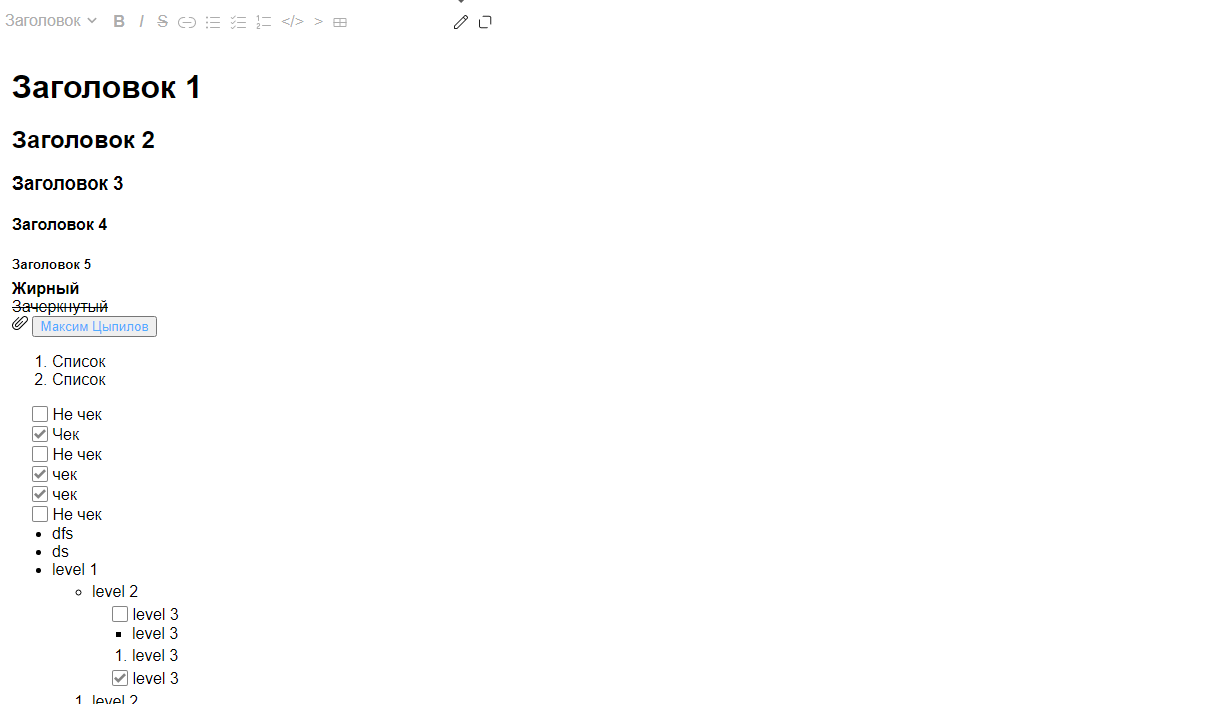
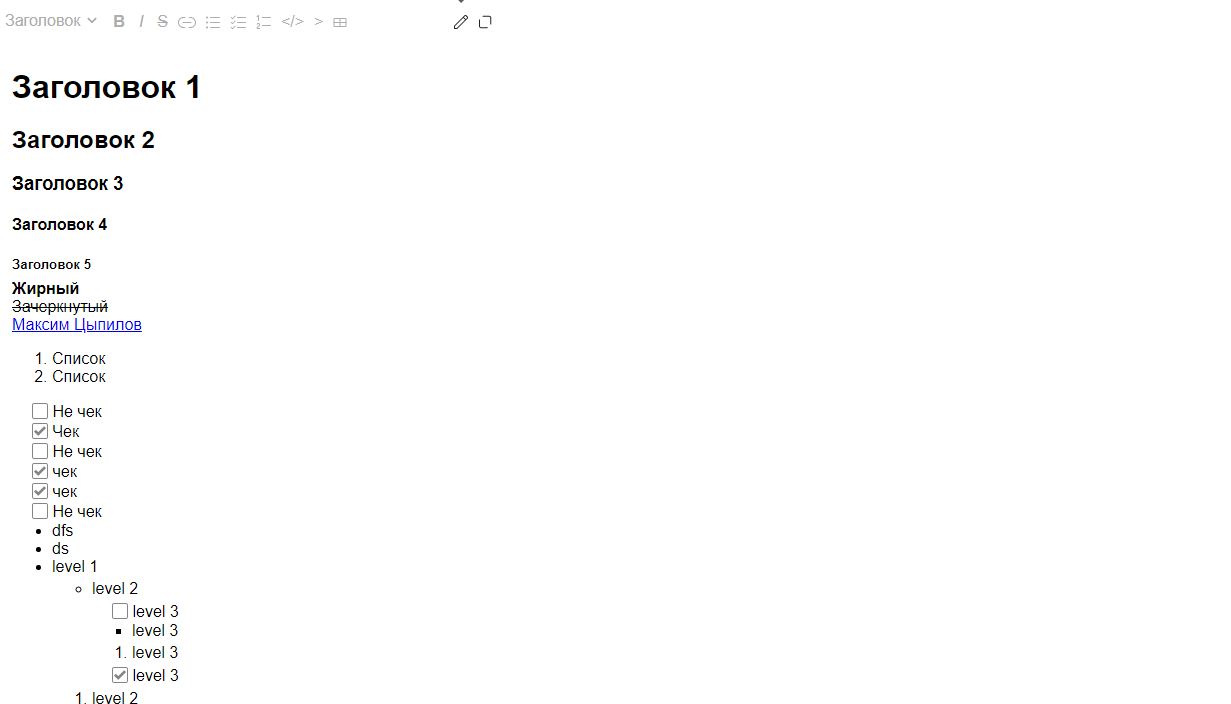
Fix href render

Changed region(s): [[0.0, 0.4375, 0.1235, 0.8125], [0.0617, 0.8125, 0.1543, 1.0]]

diff --git a/src/Markdown/Markdown.tsx b/src/Markdown/Markdown.tsx
@@ -66,8 +66,8 @@ export const Markdown: FC<MarkdownProps> = props => {
     onSelect,
     markdownViewer,
     renderFilesValidation,
-    fileApiUrl = '',
-    profileUrl = '',
+    fileApiUrl,
+    profileUrl,
     api,
     ...textareaProps
   } = props;
@@ -142,7 +142,12 @@ export const Markdown: FC<MarkdownProps> = props => {
       {!isEditMode && (
         <MarkdownPreview {...horizontalPaddings}>
           {markdownViewer?.(props.value as string) || (
-            <MarkdownViewer source={(props.value as string) ?? ''} fileApiUrl={fileApiUrl} profileUrl={profileUrl} />
+            <MarkdownViewer
+              source={(props.value as string) ?? ''}
+              downloadFileApi={api?.fileDownloadApi}
+              fileApiUrl={fileApiUrl}
+              profileUrl={profileUrl}
+            />
           )}
         </MarkdownPreview>
       )}

diff --git a/src/Markdown/__stories__/Markdown.stories.tsx b/src/Markdown/__stories__/Markdown.stories.tsx
@@ -21,7 +21,7 @@ export default {
 
 export const WithoutActions = () => <Markdown hideMarkdownActions value={allVariantsMarkdownMock} />;
 
-export const WithActions = () => <Markdown value={allVariantsMarkdownMock} />;
+export const WithActions = () => <Markdown fileApiUrl="/api/file" value={allVariantsMarkdownMock} />;
 
 export const WithPanel = () => <Markdown value={allVariantsMarkdownMock} panelHorizontalPadding={28} />;
 

diff --git a/src/MarkdownViewer/MarkdownViewer.tsx b/src/MarkdownViewer/MarkdownViewer.tsx
@@ -74,7 +74,7 @@ export const MarkdownViewer: FC<MarkdownViewerProps> = ({
   function renderLink(props: MarkdownLinkProps) {
     const { href = '', children } = props;
 
-    if (href.startsWith(fileApiUrl)) {
+    if (fileApiUrl && href.startsWith(fileApiUrl)) {
       const id = href.replace(fileApiUrl, '');
 
       return (
